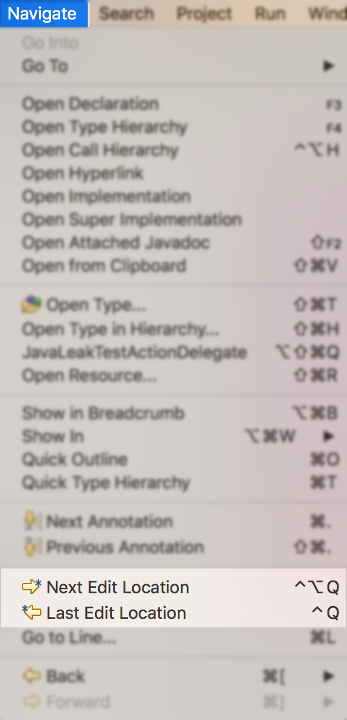
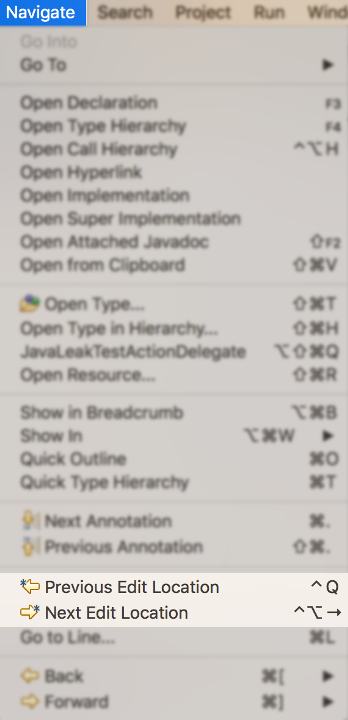
Bug 72773: store and navigate multiple edit history locations.  update key mappings

diff --git a/4.17/platform.html b/4.17/platform.html
@@ -96,30 +96,36 @@ ul {padding-left: 13px;}
   <tr id="multiple-last-edit-locations"><!-- https://bugs.eclipse.org/bugs/show_bug.cgi?id=72773 -->
     <td class="title">Multiple Last Edit Locations</td>
     <td class="content">
-      <b>Last Edit Location</b> navigation is now expanded to remember multiple edit locations.  
+      <b>Previous Edit Location</b> navigation (formerly named Last Edit Location) is now expanded to remember multiple edit locations.  
     <p>
       The last 15 edit locations are now remembered.  For convenience, similar edit locations in close proximity to each other are also merged so that each of the 15 remembered locations remains distinct.
     </p>
       <p>
-        <img src="images/multiple-last-edit-locations.png" alt="new menu item: Next Edit History" />
+        <img src="images/multiple-last-edit-locations.png" alt="new menu item: Previous Edit Location" />
       </p>
    
       <h4>How to use</h4>
-
+      <p>Two new keyboard shortcuts are introduced:</p>
       <ul>
         <li>
-      <b>Ctrl+Q</b> keyboard shortcut continues to work same as before, navigating to the most recent edit location, and normal GUI menu navigation likewise can be used same as before.  
+      <b>Ctrl+Alt+LEFT_ARROW</b> (or on Mac <b>Ctrl+Opt+LEFT_ARROW</b>) navigates to the most recent edit location, just as <b>Ctrl+Q</b> always has in prior releases.
       <p>
-        However, now continuing to hold <b>Ctrl</b> and then pressing <b>Q</b> again begins a traversal through the history of prior edit locations, with each additional press of <b>Q</b> moving a step further back in history.  Once traversal stops, future <b>Ctrl+Q</b> actions are now temporarily anchored to this older historical location for easy exploration of that code region.
+        However, now continuing to hold <b>Ctrl+Alt</b> and then pressing <b>LEFT_ARROW</b> again begins a traversal through the history of prior edit locations, with each additional press of <b>LEFT_ARROW</b> moving a step further back in history.  
+        Once traversal stops, future <b>Ctrl+Alt+LEFT_ARROW</b> actions are now temporarily anchored to this older historical location for easy exploration of that code region.
+      </p>
+      <p>
+        The classic <b>Ctrl+Q</b> mapping has been likewise enhanced with this new functionality, so that <b>Ctrl+Q</b> and <b>Ctrl+Alt+LEFT_ARROW</b> are synonymous.
       </p>
     </li>
     <li>
-      <b>Ctrl+Alt+Q</b> (or on Mac <b>Ctrl+Opt+Q</b>) conversely moves the anchor <i>forward</i> through edit history, so after traversing backward with <b>Ctrl+Q</b>, you can go forward again by repeatedly pressing <b>Ctrl+Alt+Q</b> (or on Mac <b>Ctrl+Opt+Q</b>).  A new menu item has likewise been added for this forward navigation as well.
+      <b>Ctrl+Alt+RIGHT_ARROW</b> (or on Mac <b>Ctrl+Opt+RIGHT_ARROW</b>) conversely moves the anchor <i>forward</i> through edit history, so after traversing backward with <b>Ctrl+Alt+LEFT_ARROW</b>, you can go forward again by holding <b>Ctrl+Alt</b> and repeatedly pressing <b>RIGHT_ARROW</b>.  
+      A new menu item has likewise been added for this forward navigation as well.
     </li>
     </ul>
 
       <p>
-        New edit locations are always inserted at the end, so original historical ordering is always maintained.  New edits also reset the last location "anchor" back to the most recent edit, so that pressing <b>Ctrl+Q</b> once again brings you to the most recent edit rather than a historical one.
+        New edit locations are always inserted at the end, so original historical ordering is always maintained.  
+        New edits also reset the last location "anchor" back to the most recent edit, so that pressing <b>Ctrl+Alt+LEFT_ARROW</b> once again brings you to the most recent edit rather than a historical one.
       </p>
     </td>
   </tr>
